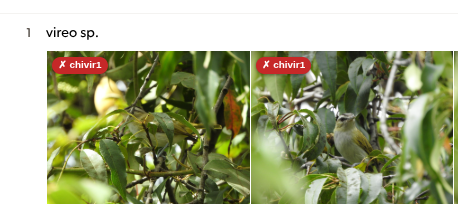
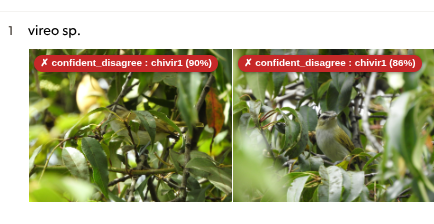
v0.4.1 : Small bugfixes

diff --git a/content-script.js b/content-script.js
@@ -28,11 +28,9 @@ if (/^\/checklist\/S\d+$/.test(path)) {
     
 
     waitForMisIDTools(() => {
-        // your image-watching code here
-        console.log("Running image detection...");
         // Initial scan — delayed 500ms to allow dynamic DOM to appear
         setTimeout(() => {
-        document.querySelectorAll("img").forEach(watchImage);
+          document.querySelectorAll("img").forEach(watchImage);
         }, 500);
         
         // Watch dynamic content
@@ -47,7 +45,7 @@ if (/^\/checklist\/S\d+$/.test(path)) {
     observer.observe(document.body, { childList: true, subtree: true });
     });
 
-    function onImageLoaded(img) {
+    function checkUnderReview(img) {
         const link = img.closest('a[data-asset-id]');
         if (!link) return;
 
@@ -62,7 +60,7 @@ if (/^\/checklist\/S\d+$/.test(path)) {
             'input[data-type="misid"][disabled]'
         ) !== null;
         if (isUnderReview) {
-        img.style.border = "5px solid orange";
+           img.style.border = "5px solid orange";
         }
     }
 
@@ -71,15 +69,14 @@ if (/^\/checklist\/S\d+$/.test(path)) {
         img.__watched = true;
 
         if (img.complete) {
-            onImageLoaded(img);
+            checkUnderReview(img);
         } else {
-            img.addEventListener("load", () => onImageLoaded(img), { once: true });
+            img.addEventListener("load", () => checkUnderReview(img), { once: true });
         }
     }
 
 
     (() => {
-        
         const section = document.querySelector('section[aria-labelledby="primary-details"]');
         if (!section) return;
 
@@ -120,14 +117,17 @@ if (/^\/checklist\/S\d+$/.test(path)) {
         
         // --- 2. Get lat/lng from Google Maps link ---
         const mapsLink = document.querySelector('a[href*="maps/search/?api=1&query="]');
-        const coordsMatch = mapsLink?.href.match(/query=([-\d.]+),([-\d.]+)/);
+        const coordsMatch = mapsLink?.href.match(
+	  /query=(-?[\d.]+(?:[eE][+-]?\d+)?),(-?[\d.]+(?:[eE][+-]?\d+)?)/
+	);
         if (!coordsMatch) {
-        console.warn('[ebird-plugin] Could not find coordinates');
-        return;
+           console.warn('[ebird-plugin] Could not find coordinates');
+           console.log('Stopping ID Checker');
+           return;
         }
         const lat = coordsMatch[1];
         const lng = coordsMatch[2];
-
+ 
         // --- 3. Call the photo-id API ---
         async function callPhotoId(photoId, speciesCode) {
             const url = `https://ebird.org/photo-id/${photoId}/${speciesCode}` +
@@ -165,8 +165,9 @@ if (/^\/checklist\/S\d+$/.test(path)) {
             const cfg = {
                 loading:   { bg: '#546e7a', text: '… checking' },
                 match:     { bg: '#2e7d32', text: '✓ AI agrees' },
-                softmatch: { bg: '#f57f17', text: '~ soft agree' },  // NEW
+                softmatch: { bg: '#f57f17', text: '~ soft agree' },
                 nomatch:   { bg: '#c62828', text: '✗' },
+                disagree:   { bg: '#c62828', text: '✗' },
                 error:     { bg: '#e65100', text: '! error' },
             }[state];
 
@@ -177,7 +178,7 @@ if (/^\/checklist\/S\d+$/.test(path)) {
                 label   = `✓ ${Math.round(data.confidence * 100)}%`;
                 tooltip = `AI confidently agrees (${data.opinion})`;
             }
-            if (state === 'softmatch' && data?.confidence != null) {
+            else if (state === 'softmatch' && data?.confidence != null) {
                 if (data.match){
                     label = `${Math.round(data.confidence * 100)}%`
                 }
@@ -187,8 +188,12 @@ if (/^\/checklist\/S\d+$/.test(path)) {
                 tooltip = `AI soft-agrees: ${data.suggested ?? '?'}` +
                         (data.confidence != null ? ` (${Math.round(data.confidence * 100)}%)` : '');
             }
-            if (state === 'nomatch') {
-                label   = `✗ ${data?.suggested ?? '?'}`;
+            else if (state === 'disagree') {
+                label   = `✗ ${data?.opinion ?? '?'} : ${data?.suggested} (${Math.round(data.confidence * 100)}%)`;
+                tooltip = ``;
+            }
+            else if (state === 'nomatch') {
+                label   = `✗ ${data?.opinion ?? '?'}`;
                 tooltip = `AI top suggestion: ${data?.suggested ?? 'unknown'}` +
                         (data?.confidence != null ? ` (${Math.round(data.confidence * 100)}%)` : '');
             }
@@ -230,6 +235,7 @@ if (/^\/checklist\/S\d+$/.test(path)) {
                     const opinionToState = {
                         confident_agree: 'match',
                         soft_agree:      'softmatch',
+                        confident_disagree:      'disagree',
                         // anything else (disagree, unsure, etc.) → nomatch
                     };
                     const badgeState = result.match
@@ -279,8 +285,6 @@ if (/^\/hotspot\/L\d+$/.test(path)) {
 	    const res = await fetch(`https://api.open-meteo.com/v1/elevation?latitude=${lat}&longitude=${lng}`);
 	    if (!res.ok) throw new Error(`HTTP ${res.status}`);
 	    const data = await res.json();
-
-	    console.log('[ebird-plugin] open-meteo elevation response:', data);
 
 	    const altitude = data?.elevation?.[0] ?? null;
 

diff --git a/README.md b/README.md
@@ -6,7 +6,7 @@ The changes are :
 
 1/ If a picture is not validated, it will be in orange 
 
-![image](assets/ebird1.jpeg)
+![image](assets/ebird1.png)
 
 2/ If it's your list, you can "See the location" directly
 
@@ -15,12 +15,12 @@ The changes are :
 3/ Get Merlin ID on all pictures
 
 * ![image](assets/ebird3.png)
-* For the Oriole, Merlin ID is not sure (in orange).
-* For the Parula, Merlin ID is confident (90%)
+   * For the Oriole, Merlin ID is not sure (37-41%, in orange).
+   * For the Parula, Merlin ID is confident (90%, in green)
 * ![image](assets/ebird4.png)
-* For the Vireo, Merlin ID suggests a Chivi Viro (chivir1)
+   * For the Vireo, Merlin ID is pretty sure (confident disagree) and suggests a Chivi Viro (chivir1)
 * ![image](assets/ebird5.png)
-* For the Flycatcher, Merlin ID doesn't know if it is ok or not.
+  * For the Flycatcher, Merlin ID doesn't know if it is ok or not.
 
 4/ Get altitude of a hotspot
 
